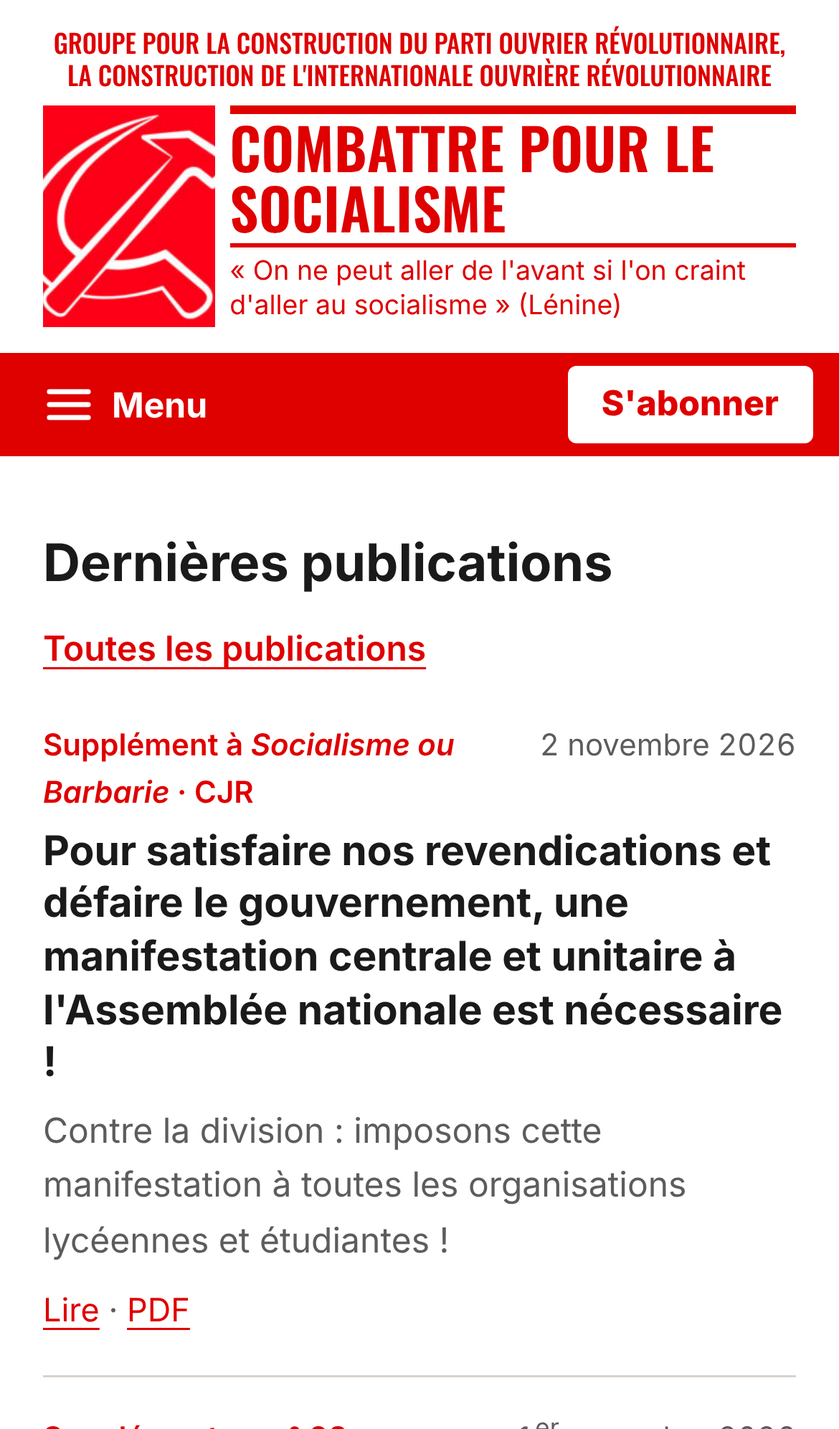
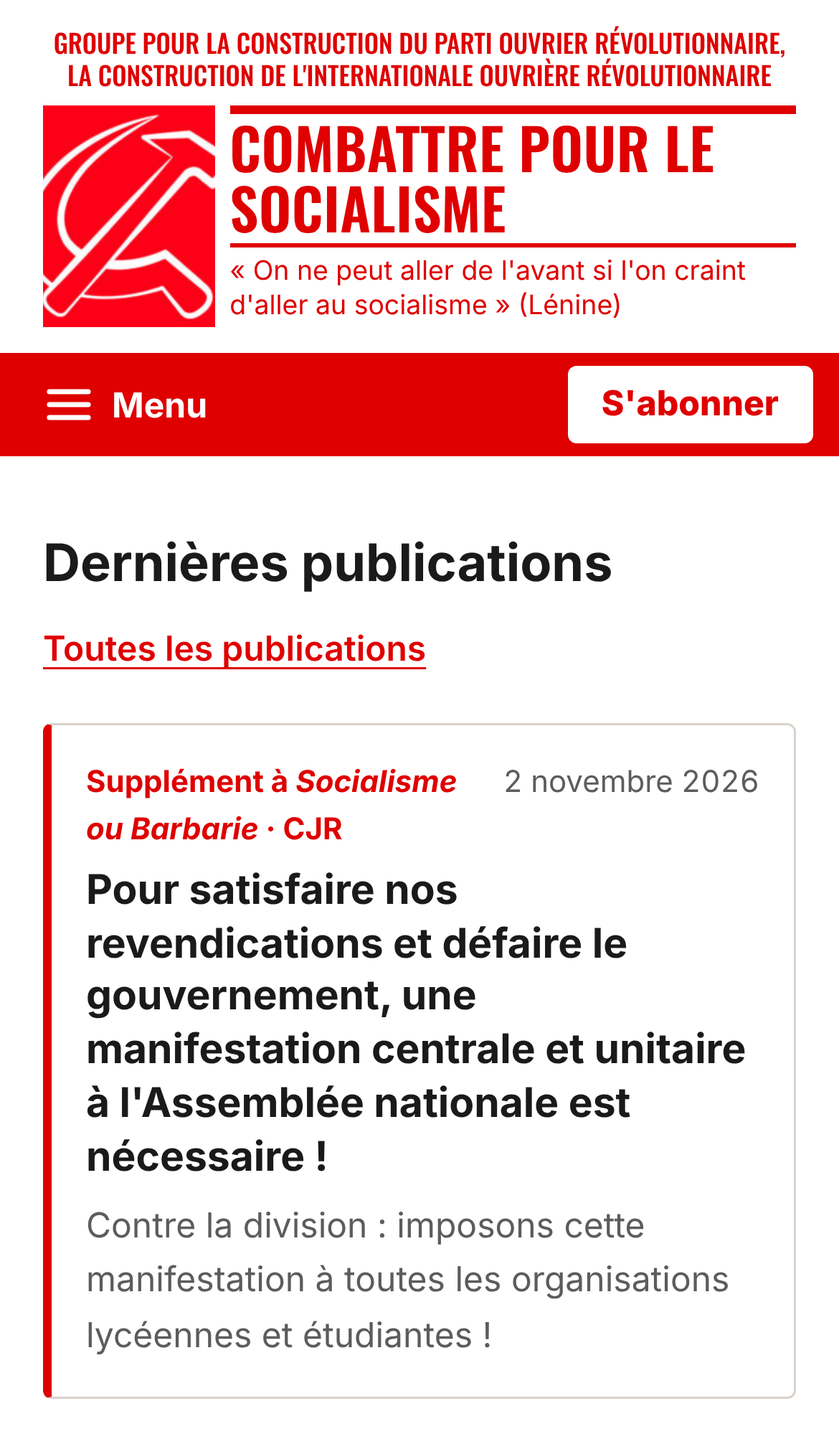
Maquette : chaque publication dans une seule boîte cliquable
Type, titre, sous-titre, date à droite, sommaire si besoin ; liens
Lire et PDF retirés.

Claude-Session: https://claude.ai/code/session_01JsBTsK6xjiaPPHPMJ6fHq2

diff --git a/maquette/index.html b/maquette/index.html
@@ -42,63 +42,53 @@
     <section class="section" aria-labelledby="dernieres">
       <div class="conteneur">
         <h2 class="titre-section" id="dernieres">Dernières publications <a href="publications.html">Toutes les publications</a></h2>
-        <ol class="liste-textes liste-chrono">
-          <li>
-              <p class="entree-tete"><span class="entree-type">Supplément à <cite>Socialisme ou Barbarie</cite> · CJR</span> <time class="entree-date" datetime="2026-11-02">2 novembre 2026</time></p>
-              <h3 class="titre-resultat"><a href="article.html">Pour satisfaire nos revendications et défaire le gouvernement, une manifestation centrale et unitaire à l'Assemblée nationale est nécessaire !</a></h3>
-              <p>Contre la division : imposons cette manifestation à toutes les organisations lycéennes et étudiantes !</p>
-              <p class="entree-liens"><a href="article.html">Lire</a> · <a href="#">PDF</a></p>
+        <ol class="boites">
+          <li class="boite">
+              <div class="boite-tete"><span class="boite-type">Supplément à <cite>Socialisme ou Barbarie</cite> · CJR</span><time class="boite-date" datetime="2026-11-02">2 novembre 2026</time></div>
+              <h3 class="boite-titre"><a href="article.html">Pour satisfaire nos revendications et défaire le gouvernement, une manifestation centrale et unitaire à l'Assemblée nationale est nécessaire !</a></h3>
+              <p class="boite-soustitre">Contre la division : imposons cette manifestation à toutes les organisations lycéennes et étudiantes !</p>
           </li>
-          <li>
-              <p class="entree-tete"><span class="entree-type">Supplément au n° 98</span> <time class="entree-date" datetime="2026-11-01">1<sup>er</sup> novembre 2026</time></p>
-              <h3 class="titre-resultat"><a href="article.html">Pour défaire le gouvernement Macron-Lecornu-Nuñez : manifestation centrale à l'Assemblée nationale</a></h3>
-              <p>À bas le projet de budget 2027 ! À bas la répression ! Satisfaction des revendications !</p>
-              <p class="entree-liens"><a href="article.html">Lire</a> · <a href="#">PDF</a></p>
+          <li class="boite">
+              <div class="boite-tete"><span class="boite-type">Supplément au n° 98</span><time class="boite-date" datetime="2026-11-01">1<sup>er</sup> novembre 2026</time></div>
+              <h3 class="boite-titre"><a href="article.html">Pour défaire le gouvernement Macron-Lecornu-Nuñez : manifestation centrale à l'Assemblée nationale</a></h3>
+              <p class="boite-soustitre">À bas le projet de budget 2027 ! À bas la répression ! Satisfaction des revendications !</p>
           </li>
-          <li>
-              <p class="entree-tete"><span class="entree-type">Supplément au n° 98 · Lycées</span> <time class="entree-date" datetime="2026-10-05">5 octobre 2026</time></p>
-              <h3 class="titre-resultat"><a href="article.html">Inconditionnellement du côté de la mobilisation lycéenne et de ses revendications</a></h3>
-              <p>Contre le gouvernement et la répression qu'il déchaîne sur les lycéens. À bas le projet de budget !</p>
-              <p class="entree-liens"><a href="article.html">Lire</a> · <a href="#">PDF</a></p>
+          <li class="boite">
+              <div class="boite-tete"><span class="boite-type">Supplément au n° 98 · Lycées</span><time class="boite-date" datetime="2026-10-05">5 octobre 2026</time></div>
+              <h3 class="boite-titre"><a href="article.html">Inconditionnellement du côté de la mobilisation lycéenne et de ses revendications</a></h3>
+              <p class="boite-soustitre">Contre le gouvernement et la répression qu'il déchaîne sur les lycéens. À bas le projet de budget !</p>
           </li>
-          <li>
-              <p class="entree-tete"><span class="entree-type">Supplément au n° 98 · Enseignement public</span> <time class="entree-date" datetime="2026-10-05">5 octobre 2026</time></p>
-              <h3 class="titre-resultat"><a href="article.html">Pour obtenir des moyens pour l'École publique et l'abrogation de Parcoursup : à bas le budget d'austérité de l'Éducation nationale 2027 !</a></h3>
-              <p class="entree-liens"><a href="article.html">Lire</a> · <a href="#">PDF</a></p>
+          <li class="boite">
+              <div class="boite-tete"><span class="boite-type">Supplément au n° 98 · Enseignement public</span><time class="boite-date" datetime="2026-10-05">5 octobre 2026</time></div>
+              <h3 class="boite-titre"><a href="article.html">Pour obtenir des moyens pour l'École publique et l'abrogation de Parcoursup : à bas le budget d'austérité de l'Éducation nationale 2027 !</a></h3>
           </li>
-          <li>
-              <p class="entree-tete"><span class="entree-type"><strong>Combattre pour le socialisme n° 98</strong> (nouvelle série)</span> <time class="entree-date" datetime="2026-10-01">1<sup>er</sup> octobre 2026</time></p>
-              <h3 class="titre-resultat"><a href="article.html">Éditorial : Le programme du MEDEF et de tous les partis bourgeois : démanteler les conquêtes des travailleurs et jeunes, les écraser</a></h3>
-              <ul class="entree-sommaire"><li><a href="article.html">Après le 54<sup>e</sup> congrès confédéral, où va la CGT ?</a></li><li><a href="article.html">Les militants interviennent et informent C.P.S. : enseignement public, Cercle de jeunes révolutionnaires</a></li><li><a href="article.html">Bolivie : une défaite pour le prolétariat dont la direction de la COB porte l'écrasante responsabilité</a></li><li><a href="article.html">Cuba assiégé par l'impérialisme, la bureaucratie accélère le processus de restauration du capital</a></li></ul>
-              <p class="entree-liens"><a href="article.html">Lire</a> · <a href="#">PDF</a></p>
+          <li class="boite">
+              <div class="boite-tete"><span class="boite-type"><strong>Combattre pour le socialisme n° 98</strong> (nouvelle série)</span><time class="boite-date" datetime="2026-10-01">1<sup>er</sup> octobre 2026</time></div>
+              <h3 class="boite-titre"><a href="article.html">Éditorial : Le programme du MEDEF et de tous les partis bourgeois : démanteler les conquêtes des travailleurs et jeunes, les écraser</a></h3>
+              <ul class="boite-sommaire"><li><a href="article.html">Après le 54<sup>e</sup> congrès confédéral, où va la CGT ?</a></li><li><a href="article.html">Les militants interviennent et informent C.P.S. : enseignement public, Cercle de jeunes révolutionnaires</a></li><li><a href="article.html">Bolivie : une défaite pour le prolétariat dont la direction de la COB porte l'écrasante responsabilité</a></li><li><a href="article.html">Cuba assiégé par l'impérialisme, la bureaucratie accélère le processus de restauration du capital</a></li></ul>
           </li>
-          <li>
-              <p class="entree-tete"><span class="entree-type">Supplément au n° 97</span> <time class="entree-date" datetime="2026-05-30">30 mai 2026</time></p>
-              <h3 class="titre-resultat"><a href="article.html">À bas les crédits militaires et la militarisation !</a></h3>
-              <p>Face à l'offensive ultra-réactionnaire de la bourgeoisie, quelle issue pour les travailleurs et la jeunesse ?</p>
-              <p class="entree-liens"><a href="article.html">Lire</a> · <a href="#">PDF</a></p>
+          <li class="boite">
+              <div class="boite-tete"><span class="boite-type">Supplément au n° 97</span><time class="boite-date" datetime="2026-05-30">30 mai 2026</time></div>
+              <h3 class="boite-titre"><a href="article.html">À bas les crédits militaires et la militarisation !</a></h3>
+              <p class="boite-soustitre">Face à l'offensive ultra-réactionnaire de la bourgeoisie, quelle issue pour les travailleurs et la jeunesse ?</p>
           </li>
-          <li>
-              <p class="entree-tete"><span class="entree-type"><strong>Combattre pour le socialisme n° 97</strong> (nouvelle série) · numéro spécial</span> <time class="entree-date" datetime="2026-04-30">30 avril 2026</time></p>
-              <h3 class="titre-resultat"><a href="article.html">Rapport sur la situation internationale adopté par la VII<sup>e</sup> conférence du Groupe : contre l'impérialisme qui enfonce l'humanité dans le chaos, la seule alternative est le combat pour le socialisme</a></h3>
-              <p class="entree-liens"><a href="article.html">Lire</a> · <a href="#">PDF</a></p>
+          <li class="boite">
+              <div class="boite-tete"><span class="boite-type"><strong>Combattre pour le socialisme n° 97</strong> (nouvelle série) · numéro spécial</span><time class="boite-date" datetime="2026-04-30">30 avril 2026</time></div>
+              <h3 class="boite-titre"><a href="article.html">Rapport sur la situation internationale adopté par la VII<sup>e</sup> conférence du Groupe : contre l'impérialisme qui enfonce l'humanité dans le chaos, la seule alternative est le combat pour le socialisme</a></h3>
           </li>
-          <li>
-              <p class="entree-tete"><span class="entree-type">Déclaration · Supplément au n° 96</span> <time class="entree-date" datetime="2026-04-10">10 avril 2026</time></p>
-              <h3 class="titre-resultat"><a href="article.html">À bas la proposition de loi Yadan !</a></h3>
-              <p>Front unique des organisations du mouvement ouvrier pour le retrait de cette proposition de loi, pour la défense des libertés démocratiques.</p>
-              <p class="entree-liens"><a href="article.html">Lire</a> · <a href="#">PDF</a></p>
+          <li class="boite">
+              <div class="boite-tete"><span class="boite-type">Déclaration · Supplément au n° 96</span><time class="boite-date" datetime="2026-04-10">10 avril 2026</time></div>
+              <h3 class="boite-titre"><a href="article.html">À bas la proposition de loi Yadan !</a></h3>
+              <p class="boite-soustitre">Front unique des organisations du mouvement ouvrier pour le retrait de cette proposition de loi, pour la défense des libertés démocratiques.</p>
           </li>
-          <li>
-              <p class="entree-tete"><span class="entree-type">Déclaration · Supplément au n° 96</span> <time class="entree-date" datetime="2026-03-07">7 mars 2026</time></p>
-              <h3 class="titre-resultat"><a href="article.html">Inconditionnellement du côté de l'Iran, du peuple palestinien, des peuples du Moyen-Orient</a></h3>
-              <p>Contre l'impérialisme américain et l'État d'Israël. Contre Macron et son gouvernement.</p>
-              <p class="entree-liens"><a href="article.html">Lire</a> · <a href="#">PDF</a></p>
+          <li class="boite">
+              <div class="boite-tete"><span class="boite-type">Déclaration · Supplément au n° 96</span><time class="boite-date" datetime="2026-03-07">7 mars 2026</time></div>
+              <h3 class="boite-titre"><a href="article.html">Inconditionnellement du côté de l'Iran, du peuple palestinien, des peuples du Moyen-Orient</a></h3>
+              <p class="boite-soustitre">Contre l'impérialisme américain et l'État d'Israël. Contre Macron et son gouvernement.</p>
           </li>
-          <li>
-              <p class="entree-tete"><span class="entree-type"><strong>Combattre pour le socialisme n° 96</strong> (nouvelle série)</span> <time class="entree-date" datetime="2026-02-28">28 février 2026</time></p>
-              <h3 class="titre-resultat"><a href="article.html">Éditorial : L'adoption du budget 2026 : un pas décisif pour le gouvernement, une défaite sans combat pour le prolétariat</a></h3>
-              <p class="entree-liens"><a href="article.html">Lire</a> · <a href="#">PDF</a></p>
+          <li class="boite">
+              <div class="boite-tete"><span class="boite-type"><strong>Combattre pour le socialisme n° 96</strong> (nouvelle série)</span><time class="boite-date" datetime="2026-02-28">28 février 2026</time></div>
+              <h3 class="boite-titre"><a href="article.html">Éditorial : L'adoption du budget 2026 : un pas décisif pour le gouvernement, une défaite sans combat pour le prolétariat</a></h3>
           </li>
         </ol>
       </div>

diff --git a/maquette/publications.html b/maquette/publications.html
@@ -93,63 +93,53 @@
 
           <div>
             <p role="status" class="resultats-entete" style="margin-top:0"><span><strong>1 226 textes</strong>, du plus récent au plus ancien</span></p>
-            <ol class="liste-textes liste-chrono">
-          <li>
-              <p class="entree-tete"><span class="entree-type">Supplément à <cite>Socialisme ou Barbarie</cite> · CJR</span> <time class="entree-date" datetime="2026-11-02">2 novembre 2026</time></p>
-              <h3 class="titre-resultat"><a href="article.html">Pour satisfaire nos revendications et défaire le gouvernement, une manifestation centrale et unitaire à l'Assemblée nationale est nécessaire !</a></h3>
-              <p>Contre la division : imposons cette manifestation à toutes les organisations lycéennes et étudiantes !</p>
-              <p class="entree-liens"><a href="article.html">Lire</a> · <a href="#">PDF</a></p>
+            <ol class="boites">
+          <li class="boite">
+              <div class="boite-tete"><span class="boite-type">Supplément à <cite>Socialisme ou Barbarie</cite> · CJR</span><time class="boite-date" datetime="2026-11-02">2 novembre 2026</time></div>
+              <h3 class="boite-titre"><a href="article.html">Pour satisfaire nos revendications et défaire le gouvernement, une manifestation centrale et unitaire à l'Assemblée nationale est nécessaire !</a></h3>
+              <p class="boite-soustitre">Contre la division : imposons cette manifestation à toutes les organisations lycéennes et étudiantes !</p>
           </li>
-          <li>
-              <p class="entree-tete"><span class="entree-type">Supplément au n° 98</span> <time class="entree-date" datetime="2026-11-01">1<sup>er</sup> novembre 2026</time></p>
-              <h3 class="titre-resultat"><a href="article.html">Pour défaire le gouvernement Macron-Lecornu-Nuñez : manifestation centrale à l'Assemblée nationale</a></h3>
-              <p>À bas le projet de budget 2027 ! À bas la répression ! Satisfaction des revendications !</p>
-              <p class="entree-liens"><a href="article.html">Lire</a> · <a href="#">PDF</a></p>
+          <li class="boite">
+              <div class="boite-tete"><span class="boite-type">Supplément au n° 98</span><time class="boite-date" datetime="2026-11-01">1<sup>er</sup> novembre 2026</time></div>
+              <h3 class="boite-titre"><a href="article.html">Pour défaire le gouvernement Macron-Lecornu-Nuñez : manifestation centrale à l'Assemblée nationale</a></h3>
+              <p class="boite-soustitre">À bas le projet de budget 2027 ! À bas la répression ! Satisfaction des revendications !</p>
           </li>
-          <li>
-              <p class="entree-tete"><span class="entree-type">Supplément au n° 98 · Lycées</span> <time class="entree-date" datetime="2026-10-05">5 octobre 2026</time></p>
-              <h3 class="titre-resultat"><a href="article.html">Inconditionnellement du côté de la mobilisation lycéenne et de ses revendications</a></h3>
-              <p>Contre le gouvernement et la répression qu'il déchaîne sur les lycéens. À bas le projet de budget !</p>
-              <p class="entree-liens"><a href="article.html">Lire</a> · <a href="#">PDF</a></p>
+          <li class="boite">
+              <div class="boite-tete"><span class="boite-type">Supplément au n° 98 · Lycées</span><time class="boite-date" datetime="2026-10-05">5 octobre 2026</time></div>
+              <h3 class="boite-titre"><a href="article.html">Inconditionnellement du côté de la mobilisation lycéenne et de ses revendications</a></h3>
+              <p class="boite-soustitre">Contre le gouvernement et la répression qu'il déchaîne sur les lycéens. À bas le projet de budget !</p>
           </li>
-          <li>
-              <p class="entree-tete"><span class="entree-type">Supplément au n° 98 · Enseignement public</span> <time class="entree-date" datetime="2026-10-05">5 octobre 2026</time></p>
-              <h3 class="titre-resultat"><a href="article.html">Pour obtenir des moyens pour l'École publique et l'abrogation de Parcoursup : à bas le budget d'austérité de l'Éducation nationale 2027 !</a></h3>
-              <p class="entree-liens"><a href="article.html">Lire</a> · <a href="#">PDF</a></p>
+          <li class="boite">
+              <div class="boite-tete"><span class="boite-type">Supplément au n° 98 · Enseignement public</span><time class="boite-date" datetime="2026-10-05">5 octobre 2026</time></div>
+              <h3 class="boite-titre"><a href="article.html">Pour obtenir des moyens pour l'École publique et l'abrogation de Parcoursup : à bas le budget d'austérité de l'Éducation nationale 2027 !</a></h3>
           </li>
-          <li>
-              <p class="entree-tete"><span class="entree-type"><strong>Combattre pour le socialisme n° 98</strong> (nouvelle série)</span> <time class="entree-date" datetime="2026-10-01">1<sup>er</sup> octobre 2026</time></p>
-              <h3 class="titre-resultat"><a href="article.html">Éditorial : Le programme du MEDEF et de tous les partis bourgeois : démanteler les conquêtes des travailleurs et jeunes, les écraser</a></h3>
-              <ul class="entree-sommaire"><li><a href="article.html">Après le 54<sup>e</sup> congrès confédéral, où va la CGT ?</a></li><li><a href="article.html">Les militants interviennent et informent C.P.S. : enseignement public, Cercle de jeunes révolutionnaires</a></li><li><a href="article.html">Bolivie : une défaite pour le prolétariat dont la direction de la COB porte l'écrasante responsabilité</a></li><li><a href="article.html">Cuba assiégé par l'impérialisme, la bureaucratie accélère le processus de restauration du capital</a></li></ul>
-              <p class="entree-liens"><a href="article.html">Lire</a> · <a href="#">PDF</a></p>
+          <li class="boite">
+              <div class="boite-tete"><span class="boite-type"><strong>Combattre pour le socialisme n° 98</strong> (nouvelle série)</span><time class="boite-date" datetime="2026-10-01">1<sup>er</sup> octobre 2026</time></div>
+              <h3 class="boite-titre"><a href="article.html">Éditorial : Le programme du MEDEF et de tous les partis bourgeois : démanteler les conquêtes des travailleurs et jeunes, les écraser</a></h3>
+              <ul class="boite-sommaire"><li><a href="article.html">Après le 54<sup>e</sup> congrès confédéral, où va la CGT ?</a></li><li><a href="article.html">Les militants interviennent et informent C.P.S. : enseignement public, Cercle de jeunes révolutionnaires</a></li><li><a href="article.html">Bolivie : une défaite pour le prolétariat dont la direction de la COB porte l'écrasante responsabilité</a></li><li><a href="article.html">Cuba assiégé par l'impérialisme, la bureaucratie accélère le processus de restauration du capital</a></li></ul>
           </li>
-          <li>
-              <p class="entree-tete"><span class="entree-type">Supplément au n° 97</span> <time class="entree-date" datetime="2026-05-30">30 mai 2026</time></p>
-              <h3 class="titre-resultat"><a href="article.html">À bas les crédits militaires et la militarisation !</a></h3>
-              <p>Face à l'offensive ultra-réactionnaire de la bourgeoisie, quelle issue pour les travailleurs et la jeunesse ?</p>
-              <p class="entree-liens"><a href="article.html">Lire</a> · <a href="#">PDF</a></p>
+          <li class="boite">
+              <div class="boite-tete"><span class="boite-type">Supplément au n° 97</span><time class="boite-date" datetime="2026-05-30">30 mai 2026</time></div>
+              <h3 class="boite-titre"><a href="article.html">À bas les crédits militaires et la militarisation !</a></h3>
+              <p class="boite-soustitre">Face à l'offensive ultra-réactionnaire de la bourgeoisie, quelle issue pour les travailleurs et la jeunesse ?</p>
           </li>
-          <li>
-              <p class="entree-tete"><span class="entree-type"><strong>Combattre pour le socialisme n° 97</strong> (nouvelle série) · numéro spécial</span> <time class="entree-date" datetime="2026-04-30">30 avril 2026</time></p>
-              <h3 class="titre-resultat"><a href="article.html">Rapport sur la situation internationale adopté par la VII<sup>e</sup> conférence du Groupe : contre l'impérialisme qui enfonce l'humanité dans le chaos, la seule alternative est le combat pour le socialisme</a></h3>
-              <p class="entree-liens"><a href="article.html">Lire</a> · <a href="#">PDF</a></p>
+          <li class="boite">
+              <div class="boite-tete"><span class="boite-type"><strong>Combattre pour le socialisme n° 97</strong> (nouvelle série) · numéro spécial</span><time class="boite-date" datetime="2026-04-30">30 avril 2026</time></div>
+              <h3 class="boite-titre"><a href="article.html">Rapport sur la situation internationale adopté par la VII<sup>e</sup> conférence du Groupe : contre l'impérialisme qui enfonce l'humanité dans le chaos, la seule alternative est le combat pour le socialisme</a></h3>
           </li>
-          <li>
-              <p class="entree-tete"><span class="entree-type">Déclaration · Supplément au n° 96</span> <time class="entree-date" datetime="2026-04-10">10 avril 2026</time></p>
-              <h3 class="titre-resultat"><a href="article.html">À bas la proposition de loi Yadan !</a></h3>
-              <p>Front unique des organisations du mouvement ouvrier pour le retrait de cette proposition de loi, pour la défense des libertés démocratiques.</p>
-              <p class="entree-liens"><a href="article.html">Lire</a> · <a href="#">PDF</a></p>
+          <li class="boite">
+              <div class="boite-tete"><span class="boite-type">Déclaration · Supplément au n° 96</span><time class="boite-date" datetime="2026-04-10">10 avril 2026</time></div>
+              <h3 class="boite-titre"><a href="article.html">À bas la proposition de loi Yadan !</a></h3>
+              <p class="boite-soustitre">Front unique des organisations du mouvement ouvrier pour le retrait de cette proposition de loi, pour la défense des libertés démocratiques.</p>
           </li>
-          <li>
-              <p class="entree-tete"><span class="entree-type">Déclaration · Supplément au n° 96</span> <time class="entree-date" datetime="2026-03-07">7 mars 2026</time></p>
-              <h3 class="titre-resultat"><a href="article.html">Inconditionnellement du côté de l'Iran, du peuple palestinien, des peuples du Moyen-Orient</a></h3>
-              <p>Contre l'impérialisme américain et l'État d'Israël. Contre Macron et son gouvernement.</p>
-              <p class="entree-liens"><a href="article.html">Lire</a> · <a href="#">PDF</a></p>
+          <li class="boite">
+              <div class="boite-tete"><span class="boite-type">Déclaration · Supplément au n° 96</span><time class="boite-date" datetime="2026-03-07">7 mars 2026</time></div>
+              <h3 class="boite-titre"><a href="article.html">Inconditionnellement du côté de l'Iran, du peuple palestinien, des peuples du Moyen-Orient</a></h3>
+              <p class="boite-soustitre">Contre l'impérialisme américain et l'État d'Israël. Contre Macron et son gouvernement.</p>
           </li>
-          <li>
-              <p class="entree-tete"><span class="entree-type"><strong>Combattre pour le socialisme n° 96</strong> (nouvelle série)</span> <time class="entree-date" datetime="2026-02-28">28 février 2026</time></p>
-              <h3 class="titre-resultat"><a href="article.html">Éditorial : L'adoption du budget 2026 : un pas décisif pour le gouvernement, une défaite sans combat pour le prolétariat</a></h3>
-              <p class="entree-liens"><a href="article.html">Lire</a> · <a href="#">PDF</a></p>
+          <li class="boite">
+              <div class="boite-tete"><span class="boite-type"><strong>Combattre pour le socialisme n° 96</strong> (nouvelle série)</span><time class="boite-date" datetime="2026-02-28">28 février 2026</time></div>
+              <h3 class="boite-titre"><a href="article.html">Éditorial : L'adoption du budget 2026 : un pas décisif pour le gouvernement, une défaite sans combat pour le prolétariat</a></h3>
           </li>
             </ol>
             <nav aria-label="Pagination">

diff --git a/maquette/styles.css b/maquette/styles.css
@@ -481,3 +481,32 @@ sup { line-height: 0; }
 .entree-sommaire a:hover { color: var(--rouge); text-decoration-color: currentColor; }
 main { padding-bottom: 2rem; }
 #dernieres { max-width: 48rem; }
+
+/* =========================================================
+   Entrées en boîtes : une boîte = un texte, toute la boîte est cliquable
+   ========================================================= */
+.boites { list-style: none; margin: 0; padding: 0; display: flex; flex-direction: column; gap: 1rem; max-width: 48rem; }
+.boite {
+  position: relative; padding: 1.1rem 1.25rem;
+  border: 1px solid var(--filet); border-left: 4px solid var(--rouge); border-radius: var(--rayon);
+  background: var(--blanc);
+}
+.boite:hover { border-color: var(--rouge); background: var(--fond-doux); }
+.boite:focus-within { outline: 3px solid var(--encre); outline-offset: 2px; }
+.boite-tete { display: flex; justify-content: space-between; align-items: baseline; gap: 1rem; margin-bottom: .3rem; }
+.boite-type { font-size: .875rem; font-weight: 700; color: var(--rouge); }
+.boite-date { flex: none; font-size: .875rem; color: var(--gris); white-space: nowrap; font-variant-numeric: tabular-nums; }
+.boite-titre { margin: 0; font-size: 1.1875rem; line-height: 1.3; }
+.boite-titre a { color: var(--encre); text-decoration: none; }
+.boite-titre a::after { content: ""; position: absolute; inset: 0; } /* rend toute la boîte cliquable */
+.boite-titre a:focus-visible { outline: none; }
+.boite:hover .boite-titre a { color: var(--rouge); }
+.boite-soustitre { margin: .4rem 0 0; color: var(--gris); }
+.boite-sommaire { margin: .6rem 0 0; padding: .6rem 0 0 1.1rem; border-top: 1px solid var(--filet); }
+.boite-sommaire li { margin: .2rem 0; }
+.boite-sommaire a { position: relative; z-index: 1; color: var(--encre); text-decoration: underline; text-decoration-color: var(--filet); }
+.boite-sommaire a:hover { color: var(--rouge); text-decoration-color: currentColor; }
+@media (max-width: 760px) {
+  .boite { padding: 1rem; }
+  .boite-tete { gap: .75rem; }
+}

diff --git a/maquette/outils/gen_pages.py b/maquette/outils/gen_pages.py
@@ -224,12 +224,11 @@ page("abonnement.html", "abonnement.html", "S'abonner, nous contacter",
 def entree(date_iso, date, type_, titre, chapo="", sommaire=None, lien="article.html"):
     som = ""
     if sommaire:
-        som = '\n              <ul class="entree-sommaire">' + "".join(f'<li><a href="{lien}">{x}</a></li>' for x in sommaire) + "</ul>"
-    ch = f"\n              <p>{chapo}</p>" if chapo else ""
-    return f"""          <li>
-              <p class="entree-tete"><span class="entree-type">{type_}</span> <time class="entree-date" datetime="{date_iso}">{date}</time></p>
-              <h3 class="titre-resultat"><a href="{lien}">{titre}</a></h3>{ch}{som}
-              <p class="entree-liens"><a href="{lien}">Lire</a> · <a href="#">PDF</a></p>
+        som = '\n              <ul class="boite-sommaire">' + "".join(f'<li><a href="{lien}">{x}</a></li>' for x in sommaire) + "</ul>"
+    ch = f'\n              <p class="boite-soustitre">{chapo}</p>' if chapo else ""
+    return f"""          <li class="boite">
+              <div class="boite-tete"><span class="boite-type">{type_}</span><time class="boite-date" datetime="{date_iso}">{date}</time></div>
+              <h3 class="boite-titre"><a href="{lien}">{titre}</a></h3>{ch}{som}
           </li>"""
 
 entrees = "\n".join([
@@ -269,7 +268,7 @@ ACCUEIL = """    <h1 class="visuellement-cache">Combattre pour le socialisme : a
     <section class="section" aria-labelledby="dernieres">
       <div class="conteneur">
         <h2 class="titre-section" id="dernieres">Dernières publications <a href="publications.html">Toutes les publications</a></h2>
-        <ol class="liste-textes liste-chrono">
+        <ol class="boites">
 ENTREES
         </ol>
       </div>
@@ -317,7 +316,7 @@ FILTRES
 
           <div>
             <p role="status" class="resultats-entete" style="margin-top:0"><span><strong>1 226 textes</strong>, du plus récent au plus ancien</span></p>
-            <ol class="liste-textes liste-chrono">
+            <ol class="boites">
 ENTREES
             </ol>
             <nav aria-label="Pagination">
